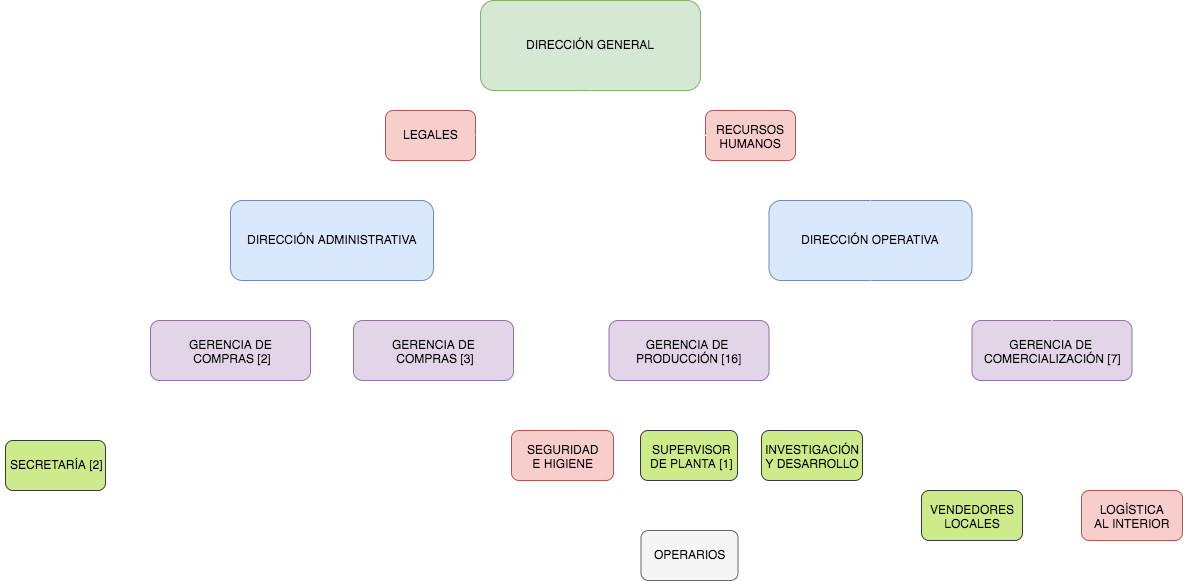
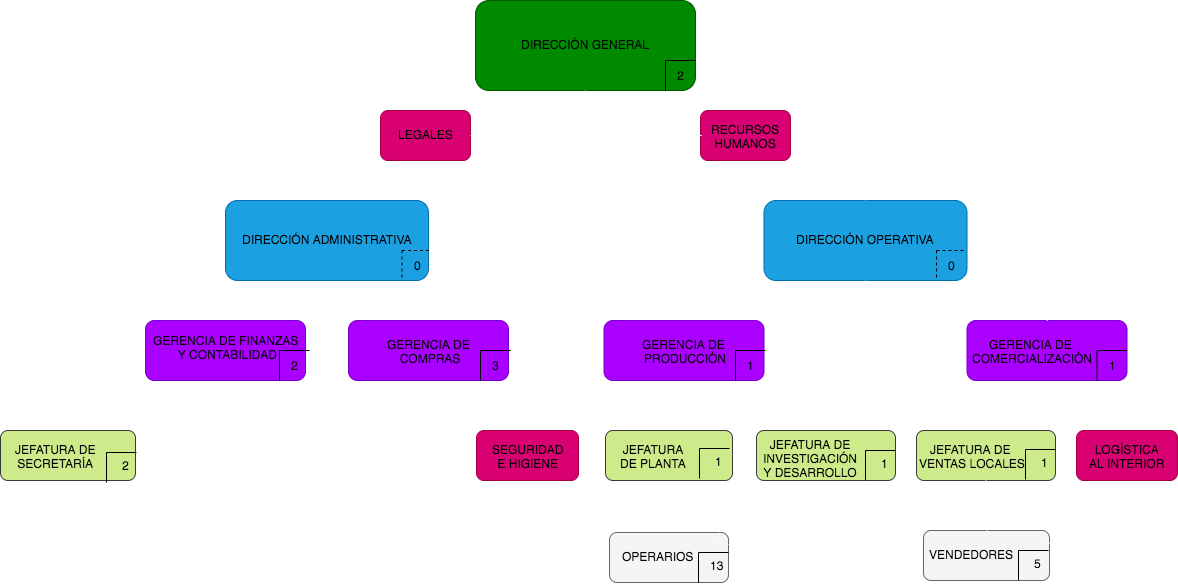
Cambios ante ultima clase

diff --git a/index.html b/index.html
@@ -55,113 +55,6 @@
 				</section>
 
 				<section>
-					<section>
-						<h2>Qué hace la empresa?</h2>
-						<ul>
-							<li class="fragment fade-in-then-semi-out">Preservador de madera</li>
-							<li class="fragment fade-in-then-semi-out">Construcciones en zona costera</li>
-							<li class="fragment fade-in-then-semi-out">Concentrado y listo para usar</li>
-						</ul>
-						<aside class="notes">
-							Su principal producto es el preservador de madera, que protege las maderas de un insecto denominado "taladro", que utiliza las maderas ( generalmente vigas, perfiles y soportes) para incubar sus crías, carcomiendo la madera y debilitando las estructuras.
-						</aside>
-						<aside class="notes">
-							Es un producto muy utilizado en viviendas y construcciones en la zona costera de nuestro país, donde se acostumbra a utilizar este tipo de material para las estructuras.
-						</aside>
-						<aside class="notes">
-							Éste producto se comercializa en dos versiones: concentrado y listo para usar (LPU).
-						</aside>
-						<br>
-						<a href="#" class="navigate-down fragment">
-							<img width="89" height="119" data-src="./assets/arrow.png" alt="Down arrow">
-						</a>
-					</section>
-
-					<section>
-						<h2>Qué hace la empresa?</h2>
-						<p>Otros productos:</p>
-						<ul>
-							<li class="fragment fade-in-then-semi-out">Impregnantes lasur. Versiones Claro y Oscuro.</li>
-							<li class="fragment fade-in-then-semi-out">Removedor de Barniz.</li>
-							<li class="fragment fade-in-then-semi-out">Sales para limpieza de madera.</li>
-						</ul>
-					</section>
-				</section>
-
-				<section>
-					<h2>Elección de empresa</h2>
-					<p>
-						La priorizamos por ser una <b class="fragment highlight-red">industria manufacturera</b> y por tener un <b class="fragment highlight-green">contacto</b> muy estable como vínculo.
-					</p>
-				</section>
-
-				<section>
-					<section>
-						<section>
-							<h2>Historia</h2>
-							<div class="history-container">
-								<img class="history" data-src="./assets/history.png" alt="History">
-							</div>
-						</section>
-					</section>
-
-					<aside class="notes">
-						La empresa tiene orígenes en el año 1989, luego de la asociación de 6 personas. Desde sus comienzos, la empresa siempre funcionó como una sociedad anónima.
-						Al muy poco tiempo, dos de esos socios se apartan del proyecto, por lo que quedan cuatro. Consiguen la aprobación de Senasa para comercializar el producto bajo un conjunto de normas de seguridad y sanidad.
-						Más tarde, y nuevamente, dos socios se desvinculan de la organización, quedando sus dos socios actuales, Tristán y Daniel. El emprendimiento fué creciendo de a poco, hasta el año 1992 donde llegaban a producir alrededor de 8000 litros por mes (considerado su break even). A partir de ese entonces, entraron a comercializar con pinturerias y madereras muy conocidas, como es el caso de pinturerias Alba, quienes se convierten en sus principales clientes.
-						Su principal producto (el cuál se mantiene hasta ahora) es el preservador para madera, con variaciones en sus versiones. Comienzan a investigar y desarrollar nuevos productos, como limpiadores de madera o removedores de barniz. Para el año 1997-98, llegaban a producir alrededor de 40000 litros por mes. Se expanden en cuanto a espacio, necesitan expandir tanques de aguarrás, mezcladoras, y demás equipamiento. En el año 2001, época de crisis, sus ventas comienzan a caer y la demanda en el mercado disminuye considerablemente, al punto de tener que realizar trueques muchas veces. Al día de hoy, sus principales clientes son madereras, pinturerias y ferreterías.
-					</aside>
-				</section>
-
-				<section>
-					<h2>Organigrama</h2>
-
-					<div class="history-container">
-						<img class="history" data-src="./assets/organigrama.png" alt="Organigrama">
-					</div>
-				</section>
-
-				<section>
-						<h2>Manual de funciones</h2>
-						<div class="history-container">
-							<img class="history" data-src="./assets/manual.png" alt="Manual">
-						</div>
-				</section>
-
-				<section>
-					<h2>Clasificación de la empresa</h2>
-					<p>
-						<b class="fragment highlight-red">Burocracia Mecánica</b><br><span class="fragment"> con aún razgos de una <b class="fragment highlight-green">Estructura Simple</b></span>
-					</p>
-				</section>
-
-				<section>
-					<h2>Hipótesis planteada</h2>
-					<p>
-						Considerando que no se concreta la exportación prevista a Brasil por cuestiones arancelarias, se decide intensificar la apertura del mercado a países vecinos (como Uruguay) y expandirse en el interior (a efectos de mantener el capital humano ya capacitado).
-					</p>
-				</section>
-
-				<section>
-					<h2>Resolución propuesta</h2>
-					<p>
-						La solución que proponemos es juntar el area tecnica con el area de ventas para que la empresa logre conquistar nuevos territorios y desarrollar nuevos mercados. 
-					</p>
-				</section>
-
-				<section>
-					<h2>Organigrama propuesto</h2>
-
-					<div class="history-container">
-						<img class="history" data-src="./assets/organigrama_h.png" alt="Organigrama">
-					</div>
-				</section>
-
-				<section>
-					<h2>Gracias!</h2>
-				</section>
-
-				<section>
 					<h3>Integrantes</h3>
 					<table>
 						<tbody>
@@ -196,6 +89,7 @@
 						</tbody>
 					</table>
 				</section>
+
 				<section>
 					<h3>Docentes</h3>
 					<table>
@@ -222,6 +116,141 @@
 							</tr>
 						</tbody>
 					</table>
+				</section>
+
+				<section>
+					<section>
+						<h2>Qué hace la empresa?</h2>
+						<ul>
+							<li class="fragment fade-in-then-semi-out">Preservador de madera. Muy utilizado en construcciones en zona costera</li>
+							<li class="fragment fade-in-then-semi-out">Concentrado y listo para usar</li>
+						</ul>
+						<div class="fragment fade-in history-container">
+							<img width="500" height="300"  class="history" style="vertical-align: top;" data-src="./assets/productos.jpeg" alt="Productos">
+							<img width="200" height="300"  class="history" data-src="./assets/producto.jpeg" alt="Producto">
+						</div>
+					</section>
+
+					<section>
+						<h2>Qué hace la empresa?</h2>
+						<p>Otros productos:</p>
+						<ul>
+							<li class="fragment fade-in-then-semi-out">Impregnantes Lasur. Versiones Claro y Oscuro.</li>
+							<li class="fragment fade-in-then-semi-out">Removedor de Barniz.</li>
+							<li class="fragment fade-in-then-semi-out">Sales para limpieza de madera.</li>
+						</ul>
+						<div class="fragment fade-in history-container">
+							<img width="500" height="300"  class="history" data-src="./assets/fabricacion.jpeg" alt="Fabricacion">
+						</div>
+					</section>
+				</section>
+
+				<section>
+					<h2>Elección de empresa</h2>
+					<p>
+						La priorizamos por ser una <b class="fragment highlight-red">industria manufacturera</b> y por tener un <b class="fragment highlight-green">contacto</b> muy estable como vínculo.
+					</p>
+					<div class="history-container">
+						<img class="history" data-src="./assets/tabla_empresas.png" alt="Tabla empresas">
+					</div>
+				</section>
+
+				<section>
+					<section>
+						<section>
+							<h2>Historia</h2>
+							<div class="history-container">
+								<img class="history" data-src="./assets/history.png" alt="History">
+							</div>
+						</section>
+					</section>
+
+					<aside class="notes">
+						La empresa tiene orígenes en el año 1989, luego de la asociación de 6 personas. Desde sus comienzos, la empresa siempre funcionó como una sociedad anónima.
+						Al muy poco tiempo, dos de esos socios se apartan del proyecto, por lo que quedan cuatro. Consiguen la aprobación de Senasa para comercializar el producto bajo un conjunto de normas de seguridad y sanidad.
+						Más tarde, y nuevamente, dos socios se desvinculan de la organización, quedando sus dos socios actuales, Tristán y Daniel. El emprendimiento fué creciendo de a poco, hasta el año 1992 donde llegaban a producir alrededor de 8000 litros por mes (considerado su break even). A partir de ese entonces, entraron a comercializar con pinturerias y madereras muy conocidas, como es el caso de pinturerias Alba, quienes se convierten en sus principales clientes.
+						Su principal producto (el cuál se mantiene hasta ahora) es el preservador para madera, con variaciones en sus versiones. Comienzan a investigar y desarrollar nuevos productos, como limpiadores de madera o removedores de barniz. Para el año 1997-98, llegaban a producir alrededor de 40000 litros por mes. Se expanden en cuanto a espacio, necesitan expandir tanques de aguarrás, mezcladoras, y demás equipamiento. En el año 2001, época de crisis, sus ventas comienzan a caer y la demanda en el mercado disminuye considerablemente, al punto de tener que realizar trueques muchas veces. Al día de hoy, sus principales clientes son madereras, pinturerias y ferreterías.
+					</aside>
+				</section>
+
+				<section>
+					<h2>Visitas a la empresa</h2>
+					<p>
+						Visitamos en dos ocasiones a la empresa. No tenían un organigrama, por lo que lo confeccionamos basados en las visitas y la teoría.
+					</p>
+				</section>
+
+				<section>
+					<h2>Organigrama</h2>
+
+					<div class="history-container">
+						<img class="history" data-src="./assets/organigrama.png" alt="Organigrama">
+					</div>
+				</section>
+
+				<section>
+						<h2>Manual de funciones</h2>
+						<div class="history-container">
+							<img class="history" data-src="./assets/manual.png" alt="Manual">
+						</div>
+				</section>
+
+				<section>
+					<h2>Clasificación de la empresa</h2>
+					<p>
+						<b class="fragment highlight-red">Burocracia Mecánica</b><br><span class="fragment"> con aún razgos de una <b class="fragment highlight-green">Estructura Simple</b></span>
+					</p>
+				</section>
+
+				<section>
+					<section>
+						<h2>Alcance temporal y organización requerida</h2>
+						<p class="fragment highlight-red">Empresa de Estrato III</p>
+						<ul class="fragment fade-in">
+							<li>Alcance temporal de 22 meses</li>
+							<li>Empresa chica, de hasta 50 trabajadores</li>
+							<li>El directorio es pequeño</li>
+							<li>Financiación propia o de bancos</li>
+							<li>Mando directo</li>
+						</ul>
+					</section>
+
+					<section>
+						<div>
+							<img class="history" data-src="./assets/org_requerida_potencial.png" alt="Org Requerida">
+						</div>
+					</section>
+				</section>
+
+				<section>
+					<h2>Hipótesis planteada</h2>
+					<p>
+						Considerando que no se concreta la exportación prevista a Brasil por cuestiones arancelarias, se decide intensificar la apertura del mercado a países vecinos (como Uruguay) y expandirse en el interior (a efectos de mantener el capital humano ya capacitado).
+					</p>
+				</section>
+
+				<section>
+					<h2>Resolución propuesta</h2>
+					<p>
+						La solución que proponemos es juntar el area tecnica con el area de ventas para que la empresa logre conquistar nuevos territorios y desarrollar nuevos mercados.
+					</p>
+				</section>
+
+				<section>
+						<section>
+							<h2>Organigrama propuesto</h2>
+							<div class="history-container orga">
+								<img class="history" data-src="./assets/organigrama_h_2.png" alt="Organigrama p 2">
+							</div>
+							<div class="fragment fade-out history-container orga orga_1">
+								<img class="history" data-src="./assets/organigrama_h_1.png" alt="Organigrama p 1">
+							</div>
+						</section>
+				</section>
+
+
+				<section>
+					<h2>Gracias!</h2>
 				</section>
 			</div>
 

diff --git a/css/theme/black.css b/css/theme/black.css
@@ -234,6 +234,11 @@ body {
   border: 4px solid #fff;
   box-shadow: 0 0 10px rgba(0, 0, 0, 0.15); }
 
+.reveal section .history-container.orga {
+  position: absolute;}
+.reveal section .history-container.orga.orga_1 {
+  background: #191919;}
+
  .reveal section .history-container img.history {
    margin: 15px 0px;
    background: none;
